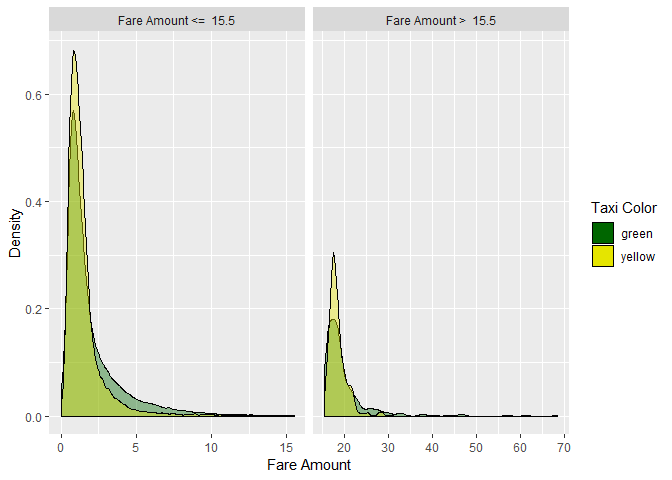
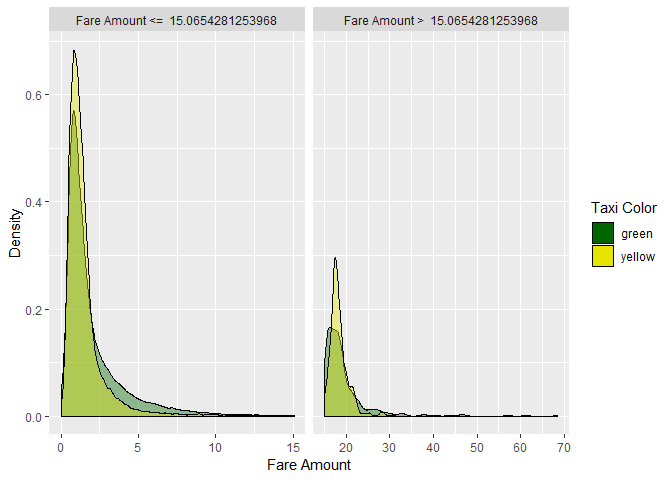
fix: threshold

diff --git a/exploratoryPhase/README.md b/exploratoryPhase/README.md
@@ -9,7 +9,8 @@ I wanted to visualize the density of the `trip_distance`, I used
     taxiData <-
       read.csv('../clean_yellow_green_data.csv', stringsAsFactors = FALSE)
 
-    threshold <- quantile(taxiData$trip_distance, probs=0.9)
+    fit <- fitdistr(taxiData$trip_distance, densfun="lognormal")
+    threshold <- qlnorm(p=0.9, meanlog = fit$estimate[1], sdlog = fit$estimate[2], lower.tail = TRUE, log.p = FALSE)
 
     ggplot(taxiData, aes(x=trip_distance, fill=taxi_color, alpha=I(0.4))) +
       xlim(min(taxiData$trip_distance),max(taxiData$trip_distance)) +
@@ -20,8 +21,8 @@ I wanted to visualize the density of the `trip_distance`, I used
 
 ![](README_files/figure-markdown_strict/unnamed-chunk-1-1.png)
 
-The trip distance threshold is 3.8 miles I decided to create a discrete
-modal with the new trip distance threshold
+The trip distance threshold is 3.7869182 miles I decided to create a
+discrete modal with the new trip distance threshold
 
     distance_type_label <- c('TRUE' = paste('Trip Distance > ', threshold), 'FALSE' = paste('Trip Distance <= ', threshold))
     ggplot(transform(taxiData,
@@ -38,7 +39,8 @@ Running the same logic on `fare_amount` values
     taxiData <-
       read.csv('../clean_yellow_green_data.csv', stringsAsFactors = FALSE)
 
-    threshold <- quantile(taxiData$fare_amount, probs=0.9)
+    fit <- fitdistr(taxiData$fare_amount, densfun="lognormal")
+    threshold <- qlnorm(p=0.9, meanlog = fit$estimate[1], sdlog = fit$estimate[2], lower.tail = TRUE, log.p = FALSE)
 
     ggplot(taxiData, aes(x=fare_amount, fill=taxi_color, alpha=I(0.4))) +
       xlim(min(taxiData$fare_amount),max(taxiData$fare_amount)) +
